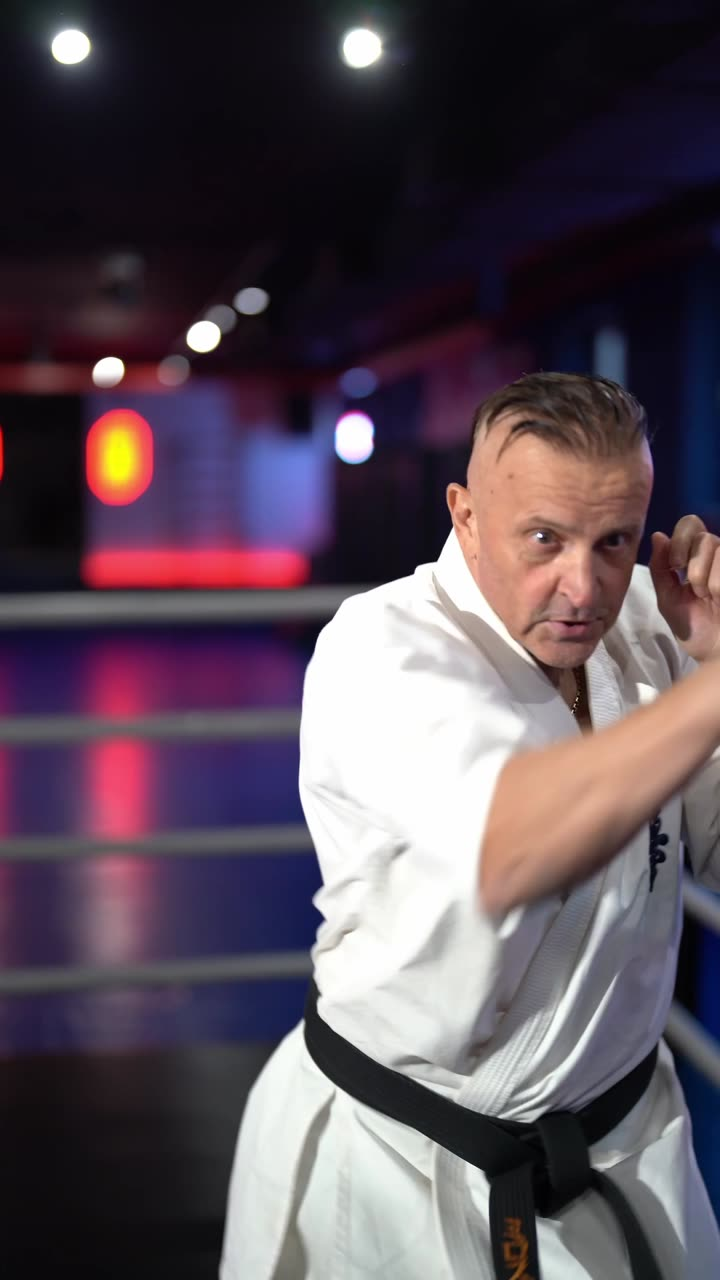
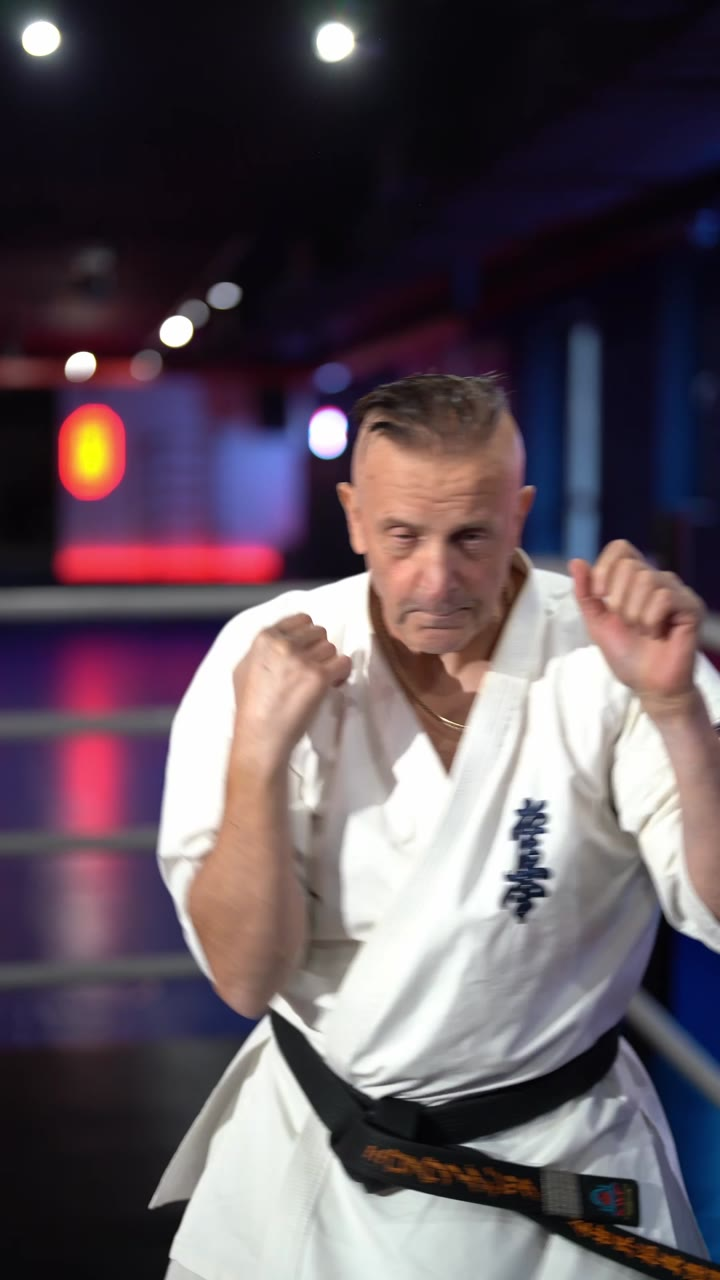
Lepsze okładki rolek w intro
Część 1: kadr z pozycji walki przodem do kamery (18,2 s). Część 2: ojciec i syn obok
siebie z bliska (26,8 s). Parametr ?v=2 omija starą okładkę w pamięci przeglądarki.

Claude-Session: https://claude.ai/code/session_01Sej1UEWUuuPz2tXpVE7gfu

diff --git a/src/app/page.tsx b/src/app/page.tsx
@@ -106,8 +106,8 @@ export default function Home() {
 
 // Rolki klubu Dragon Fight Club Radom jako intro dla nowych osób. Pionowe, z dźwiękiem, startują po kliknięciu.
 const INTRO_REELS = [
-  { src: "/wideo/pokolenia-1.mp4", poster: "/wideo/pokolenia-1.jpg", label: "Część 1 · Przygotowanie" },
-  { src: "/wideo/pokolenia-2.mp4", poster: "/wideo/pokolenia-2.jpg", label: "Część 2 · Pokolenia" },
+  { src: "/wideo/pokolenia-1.mp4", poster: "/wideo/pokolenia-1.jpg?v=2", label: "Część 1 · Przygotowanie" },
+  { src: "/wideo/pokolenia-2.mp4", poster: "/wideo/pokolenia-2.jpg?v=2", label: "Część 2 · Pokolenia" },
 ];
 
 function IntroVideo() {
